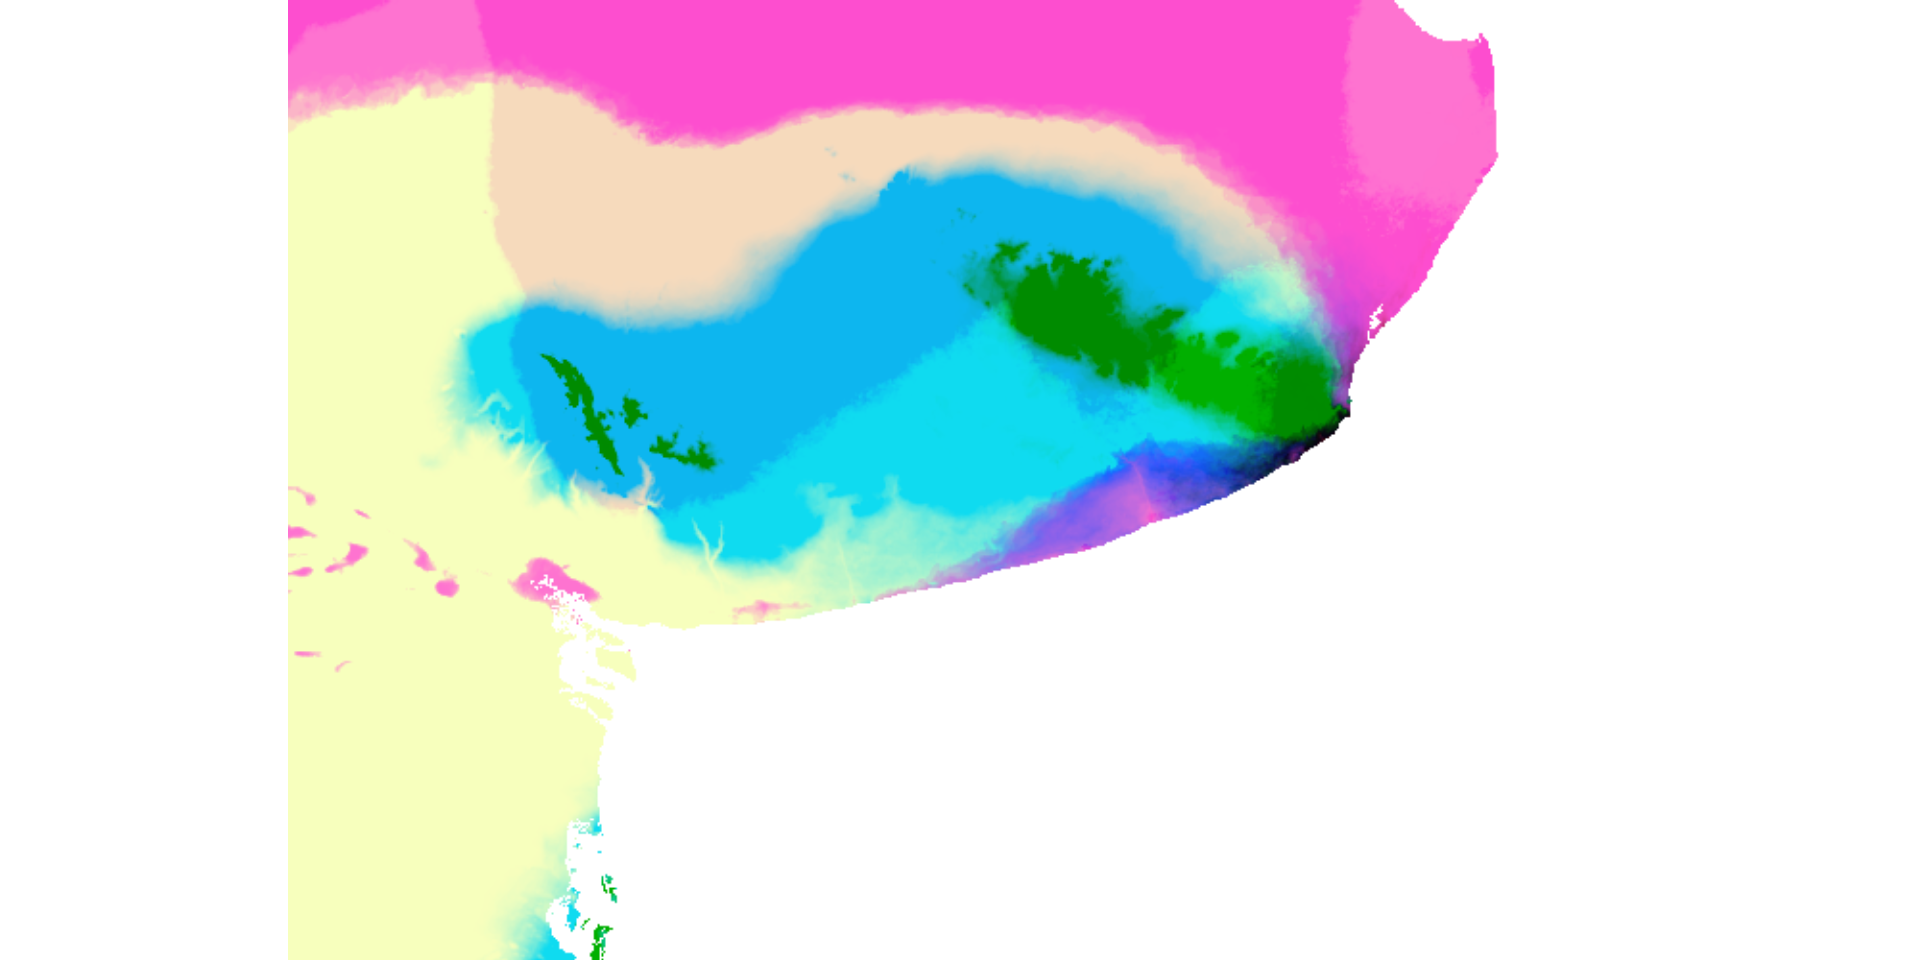
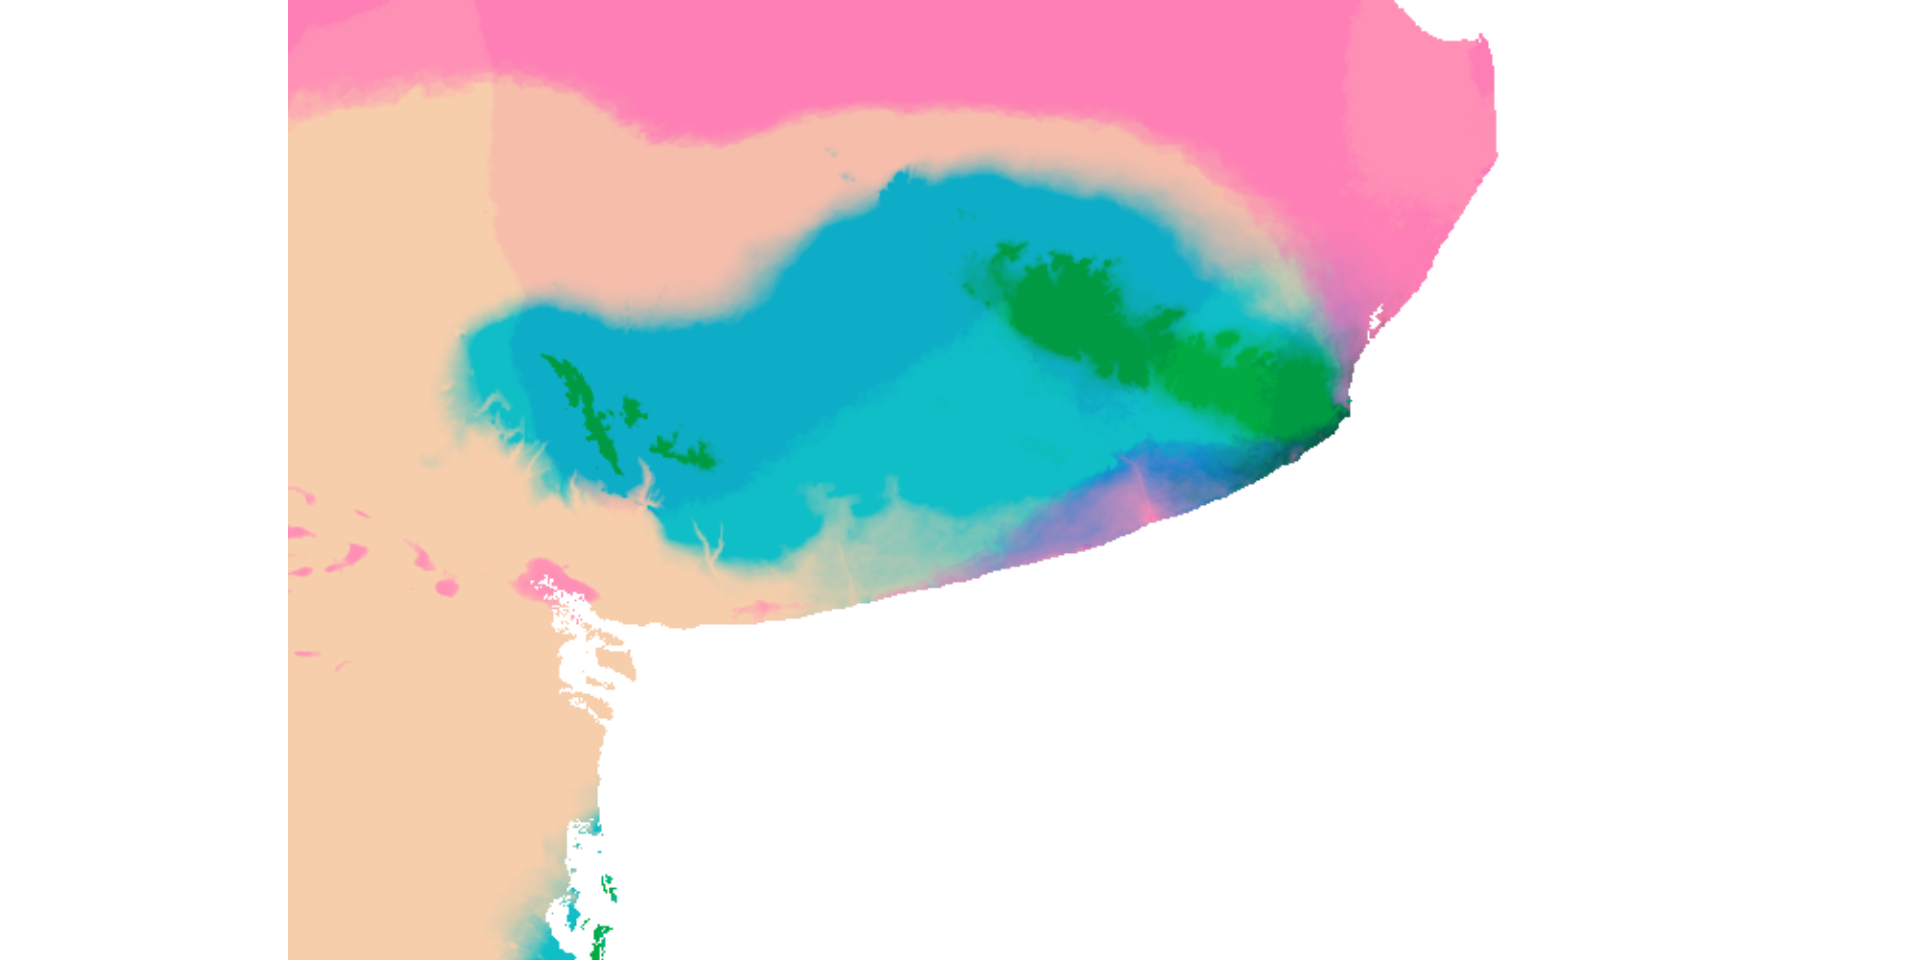
Built site for gh-pages

diff --git a/AEMER-4_GDM.html b/AEMER-4_GDM.html
@@ -495,7 +495,7 @@ moro      -58.40547 -38.50085</code></pre>
 </div>
 </div>
 <div class="cell">
-<div class="sourceCode cell-code" id="cb5" data-code-line-numbers="1-3|4-6|7-8"><pre class="sourceCode numberSource r number-lines code-with-copy"><code class="sourceCode r"><span id="cb5-1"><a></a>utm <span class="ot">&lt;-</span> <span class="fu">project</span>(<span class="fu">as.matrix</span>(coords), </span>
+<div class="sourceCode cell-code" id="cb5" data-code-line-numbers="1-3|4-6|7-8|9"><pre class="sourceCode numberSource r number-lines code-with-copy"><code class="sourceCode r"><span id="cb5-1"><a></a>utm <span class="ot">&lt;-</span> <span class="fu">project</span>(<span class="fu">as.matrix</span>(coords), </span>
 <span id="cb5-2"><a></a>               <span class="at">from =</span> <span class="st">"EPSG: 4326"</span>, </span>
 <span id="cb5-3"><a></a>               <span class="at">to =</span> <span class="st">"EPSG:32721"</span>)</span>
 <span id="cb5-4"><a></a>utm <span class="ot">&lt;-</span> <span class="fu">data.frame</span>(<span class="at">x =</span> utm[,<span class="dv">1</span>], </span>
@@ -618,7 +618,7 @@ chapad_f_d.5           17.2         2.49  8.90</code></pre>
 <pre><code>[1] 
 [1] 
 [1] GDM Modelling Summary
-[1] Creation Date:  Thu Oct 24 23:25:42 2024
+[1] Creation Date:  Thu Oct 24 23:38:59 2024
 [1] 
 [1] Name:  gdmTab.fit
 [1] 
@@ -696,7 +696,7 @@ chapad_f_d.5           17.2         2.49  8.90</code></pre>
 <pre><code>[1] 
 [1] 
 [1] GDM Modelling Summary
-[1] Creation Date:  Thu Oct 24 23:25:42 2024
+[1] Creation Date:  Thu Oct 24 23:38:59 2024
 [1] 
 [1] Name:  gdmRast.fit
 [1] 
@@ -1013,7 +1013,7 @@ dimensions  : 500, 700, 7  (nrow, ncol, nlyr)
 resolution  : 1000, 1000  (x, y)
 extent      : -100055.4, 599944.6, 5500177, 6000177  (xmin, xmax, ymin, ymax)
 coord. ref. : WGS 84 / UTM zone 21S (EPSG:32721) 
-source      : spat_8a3072a01eea_35376_o8up7yuDdJ6XHBX.tif 
+source      : spat_8f801ae259fe_36736_o8up7yuDdJ6XHBX.tif 
 names       : xCoord, yCoord,     bio1,      bio5,     bio10,     bio11, ... 
 min values  :      0,      0, 0.000000, 0.0000000, 0.0000000, 0.0000000, ... 
 max values  :      0,      0, 1.603295, 0.1485767, 0.9152355, 0.4735476, ... </code></pre>
@@ -1036,17 +1036,16 @@ max values  :      0,      0, 1.603295, 0.1485767, 0.9152355, 0.4735476, ... </c
 <section id="para-reducir-la-dimensionalidad-de-las-distintas-capas-usamos-un-acp-para-seleccionar-los-tres-primeros-ejes" class="slide level2">
 <h2>Para reducir la dimensionalidad de las distintas capas, usamos un ACP para seleccionar los tres primeros ejes</h2>
 <div class="cell">
-<div class="sourceCode cell-code" id="cb26" data-code-line-numbers="1|3-4|6-9|11"><pre class="sourceCode numberSource r number-lines code-with-copy"><code class="sourceCode r"><span id="cb26-1"><a></a>pca.rast <span class="ot">&lt;-</span> <span class="fu">prcomp</span>(gdmRast.sp_trans)</span>
+<div class="sourceCode cell-code" id="cb26" data-code-line-numbers="1|3-4|6-8|10"><pre class="sourceCode numberSource r number-lines code-with-copy"><code class="sourceCode r"><span id="cb26-1"><a></a>pca.rast <span class="ot">&lt;-</span> <span class="fu">prcomp</span>(gdmRast.sp_trans)</span>
 <span id="cb26-2"><a></a></span>
 <span id="cb26-3"><a></a><span class="co"># note the use of the 'index' argument</span></span>
 <span id="cb26-4"><a></a>pca.rast <span class="ot">&lt;-</span> terra<span class="sc">::</span><span class="fu">predict</span>(gdmRast.sp_trans, pca.rast, <span class="at">index=</span><span class="dv">1</span><span class="sc">:</span><span class="dv">3</span>)</span>
 <span id="cb26-5"><a></a></span>
 <span id="cb26-6"><a></a><span class="co"># scale rasters</span></span>
-<span id="cb26-7"><a></a>pca.rast[[<span class="dv">1</span>]] <span class="ot">&lt;-</span> terra<span class="sc">::</span><span class="fu">app</span>(pca.rast[[<span class="dv">1</span>]], <span class="at">fun =</span> scales<span class="sc">::</span>rescale, <span class="at">to =</span> <span class="fu">c</span>(<span class="dv">0</span>, <span class="dv">255</span>))</span>
-<span id="cb26-8"><a></a>pca.rast[[<span class="dv">2</span>]] <span class="ot">&lt;-</span> terra<span class="sc">::</span><span class="fu">app</span>(pca.rast[[<span class="dv">2</span>]], <span class="at">fun =</span> scales<span class="sc">::</span>rescale, <span class="at">to =</span> <span class="fu">c</span>(<span class="dv">0</span>, <span class="dv">255</span>))</span>
-<span id="cb26-9"><a></a>pca.rast[[<span class="dv">3</span>]] <span class="ot">&lt;-</span> terra<span class="sc">::</span><span class="fu">app</span>(pca.rast[[<span class="dv">3</span>]], <span class="at">fun =</span> scales<span class="sc">::</span>rescale, <span class="at">to =</span> <span class="fu">c</span>(<span class="dv">0</span>, <span class="dv">255</span>))</span>
-<span id="cb26-10"><a></a></span>
-<span id="cb26-11"><a></a>pca.rast</span></code><button title="Copy to Clipboard" class="code-copy-button"><i class="bi"></i></button></pre></div>
+<span id="cb26-7"><a></a>mnmx <span class="ot">&lt;-</span> <span class="fu">values</span>(pca.rast) <span class="sc">|&gt;</span> <span class="fu">range</span>(<span class="at">na.rm =</span> <span class="cn">TRUE</span>)</span>
+<span id="cb26-8"><a></a>pca.rast <span class="ot">&lt;-</span> ((pca.rast <span class="sc">-</span> mnmx[<span class="dv">1</span>]) <span class="sc">/</span> <span class="fu">diff</span>(mnmx)) <span class="sc">*</span> <span class="dv">255</span></span>
+<span id="cb26-9"><a></a></span>
+<span id="cb26-10"><a></a>pca.rast</span></code><button title="Copy to Clipboard" class="code-copy-button"><i class="bi"></i></button></pre></div>
 <div class="cell-output cell-output-stdout">
 <pre><code>class       : SpatRaster 
 dimensions  : 500, 700, 3  (nrow, ncol, nlyr)
@@ -1054,9 +1053,9 @@ resolution  : 1000, 1000  (x, y)
 extent      : -100055.4, 599944.6, 5500177, 6000177  (xmin, xmax, ymin, ymax)
 coord. ref. : WGS 84 / UTM zone 21S (EPSG:32721) 
 source(s)   : memory
-names       : lyr.1, lyr.1, lyr.1 
-min values  :     0,     0,     0 
-max values  :   255,   255,   255 </code></pre>
+names       : PC1,       PC2,       PC3 
+min values  :   0,  91.78841,  67.39197 
+max values  : 255, 206.29877, 207.57428 </code></pre>
 </div>
 </div>
 </section>
@@ -1580,7 +1579,7 @@ max values  :   255,   255,   255 </code></pre>
       }
     });
     </script>
-    <script>var lightboxQuarto = GLightbox({"openEffect":"zoom","descPosition":"bottom","selector":".lightbox","closeEffect":"zoom","loop":false});
+    <script>var lightboxQuarto = GLightbox({"selector":".lightbox","descPosition":"bottom","closeEffect":"zoom","loop":false,"openEffect":"zoom"});
     (function() {
       let previousOnload = window.onload;
       window.onload = () => {

diff --git a/AEMER-3_Analisis_multivariante.html b/AEMER-3_Analisis_multivariante.html
@@ -1610,7 +1610,7 @@ Site_11 Site_12 Site_13 Site_14 Site_15 Site_16 Site_17 Site_18 Site_19 Site_20
       }
     });
     </script>
-    <script>var lightboxQuarto = GLightbox({"openEffect":"zoom","selector":".lightbox","closeEffect":"zoom","loop":false,"descPosition":"bottom"});
+    <script>var lightboxQuarto = GLightbox({"selector":".lightbox","openEffect":"zoom","loop":false,"closeEffect":"zoom","descPosition":"bottom"});
     (function() {
       let previousOnload = window.onload;
       window.onload = () => {

diff --git a/AEMER-3_Ejercicios.html b/AEMER-3_Ejercicios.html
@@ -1040,7 +1040,7 @@ window.document.addEventListener("DOMContentLoaded", function (event) {
 });
 </script>
 </div> <!-- /content -->
-<script>var lightboxQuarto = GLightbox({"openEffect":"zoom","selector":".lightbox","loop":false,"closeEffect":"zoom","descPosition":"bottom"});
+<script>var lightboxQuarto = GLightbox({"closeEffect":"zoom","descPosition":"bottom","loop":false,"selector":".lightbox","openEffect":"zoom"});
 (function() {
   let previousOnload = window.onload;
   window.onload = () => {

diff --git a/AEMER-2_Ejercicios.html b/AEMER-2_Ejercicios.html
@@ -980,7 +980,7 @@ window.document.addEventListener("DOMContentLoaded", function (event) {
 });
 </script>
 </div> <!-- /content -->
-<script>var lightboxQuarto = GLightbox({"selector":".lightbox","openEffect":"zoom","loop":false,"descPosition":"bottom","closeEffect":"zoom"});
+<script>var lightboxQuarto = GLightbox({"descPosition":"bottom","selector":".lightbox","loop":false,"closeEffect":"zoom","openEffect":"zoom"});
 (function() {
   let previousOnload = window.onload;
   window.onload = () => {

diff --git a/AEMER-2_Analisis_espacial.html b/AEMER-2_Analisis_espacial.html
@@ -2141,7 +2141,7 @@ attr(,"package")
       }
     });
     </script>
-    <script>var lightboxQuarto = GLightbox({"loop":false,"openEffect":"zoom","closeEffect":"zoom","descPosition":"bottom","selector":".lightbox"});
+    <script>var lightboxQuarto = GLightbox({"closeEffect":"zoom","loop":false,"descPosition":"bottom","selector":".lightbox","openEffect":"zoom"});
     (function() {
       let previousOnload = window.onload;
       window.onload = () => {

diff --git a/AEMER-5_HMSC.html b/AEMER-5_HMSC.html
@@ -1408,7 +1408,7 @@ $C.RMSE
       }
     });
     </script>
-    <script>var lightboxQuarto = GLightbox({"selector":".lightbox","loop":false,"openEffect":"zoom","closeEffect":"zoom","descPosition":"bottom"});
+    <script>var lightboxQuarto = GLightbox({"selector":".lightbox","descPosition":"bottom","loop":false,"openEffect":"zoom","closeEffect":"zoom"});
     (function() {
       let previousOnload = window.onload;
       window.onload = () => {
